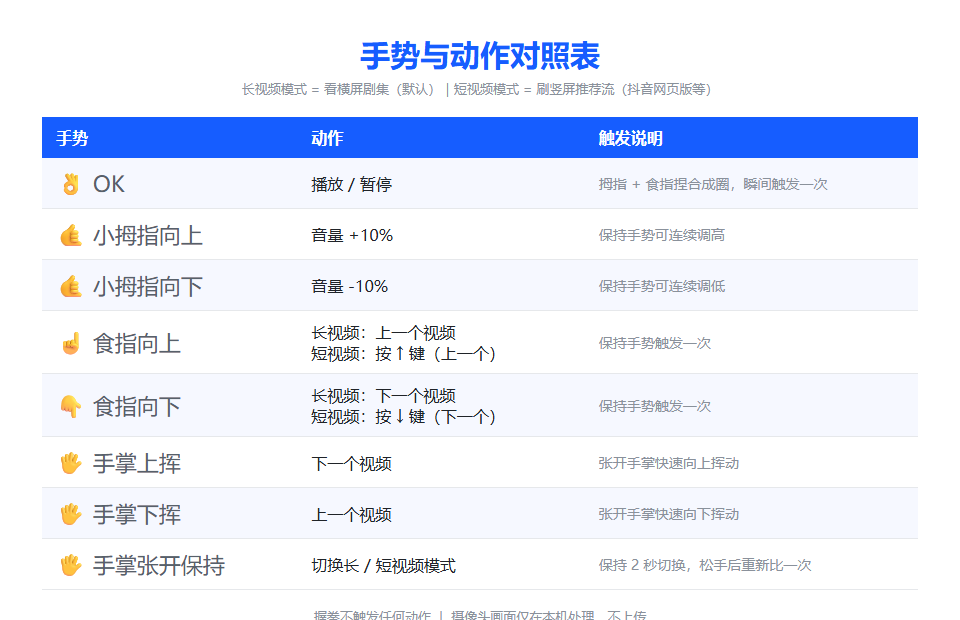
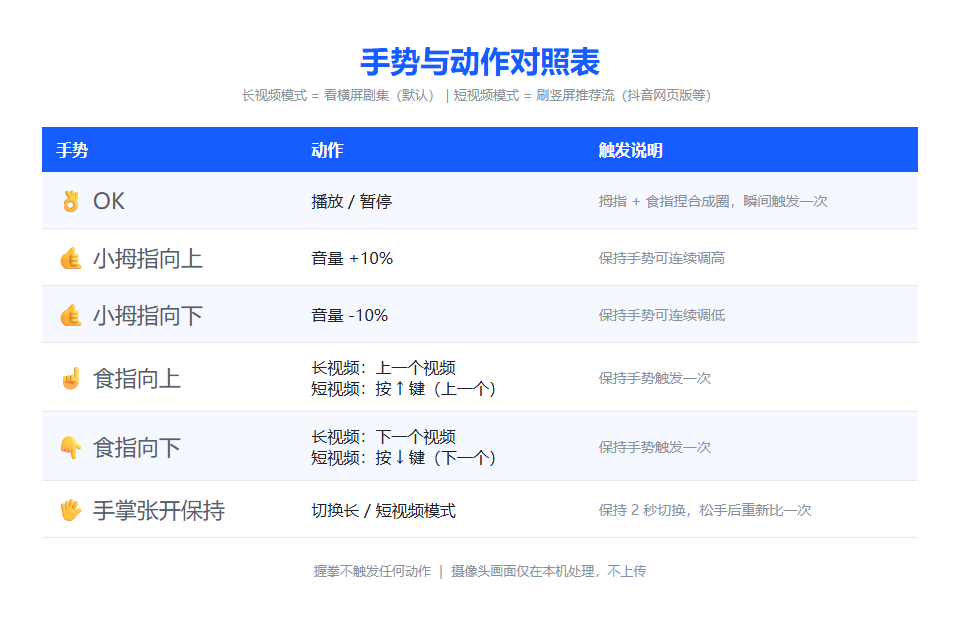
feat: 删除手掌上/下挥动切视频，保留手掌张开保持2秒切换模式

diff --git a/float.js b/float.js
@@ -66,7 +66,6 @@ const state = {
   stablePose: '',
   stableFrames: 0,
   okPinched: false,      // OK 手势捏合跳变检测
-  palmHistory: [],
   handFoundFrames: 0,    // 连续检测到手的帧数（显示防抖用）
   handLostFrames: 0,     // 连续没检测到手的帧数（显示防抖用）
   shortVideoMode: false, // 短视频模式（默认长视频模式）
@@ -672,7 +671,6 @@ function handleRecResult(result) {
     drawLandmarks(null);
     setGestureLocal('未检测到手', '把张开的手掌放到摄像头正前方，预览里能看到整只手');
     state.okPinched = false;
-    state.palmHistory = [];
     state.palmHoldStart = null;
     state.palmHoldTriggered = false;
     state.stablePose = '';
@@ -736,23 +734,8 @@ function handleRecResult(result) {
 
   // 握拳：不再触发任何动作（保留识别，避免握拳被误判成其它手势）
 
-  // 手掌张开：上下挥动切集
+  // 手掌张开：保持 2 秒切换长/短视频模式（上下挥动切集已移除）
   if (pose.name === '手掌张开') {
-    const palmY = (lm[0].y + lm[9].y) / 2;
-    state.palmHistory.push(palmY);
-    if (state.palmHistory.length > 8) state.palmHistory.shift();
-    if (stable && state.palmHistory.length >= 8 && now - state.lastActionTime >= state.debounceMs) {
-      const dy = state.palmHistory[state.palmHistory.length - 1] - state.palmHistory[0];
-      if (dy <= -0.04) {
-        state.lastActionTime = now;
-        state.palmHistory = [];
-        sendAction('next', '手掌上挥');
-      } else if (dy >= 0.04) {
-        state.lastActionTime = now;
-        state.palmHistory = [];
-        sendAction('prev', '手掌下挥');
-      }
-    }
     // 保持 2 秒：切换长/短视频模式（切换一次后需松手重新比才算下一次）
     if (state.palmHoldStart === null) {
       state.palmHoldStart = now;
@@ -761,7 +744,6 @@ function handleRecResult(result) {
       toggleShortVideoMode();
     }
   } else {
-    state.palmHistory = [];
     state.palmHoldStart = null;
     state.palmHoldTriggered = false;
   }

diff --git a/offscreen.js b/offscreen.js
@@ -35,7 +35,6 @@ const state = {
   stablePose: '',
   stableFrames: 0,
   okPinched: false,      // OK 手势捏合跳变检测
-  palmHistory: [],       // 手掌上下挥动检测
   handFoundFrames: 0,    // 连续检测到手的帧数（显示防抖用）
   handLostFrames: 0,     // 连续没检测到手的帧数（显示防抖用）
   shortVideoMode: false, // 短视频模式（默认长视频模式）
@@ -316,7 +315,6 @@ function onHandsResults(results) {
     }
     setGesture('未检测到手', '请将手掌完整放入摄像头画面');
     state.okPinched = false;
-    state.palmHistory = [];
     state.palmHoldStart = null;
     state.palmHoldTriggered = false;
     state.stablePose = '';
@@ -387,23 +385,8 @@ function onHandsResults(results) {
 
   // 握拳：不再触发任何动作（保留识别，避免握拳被误判成其它手势）
 
-  // 手掌张开：上下挥动切集
+  // 手掌张开：保持 2 秒切换长/短视频模式（上下挥动切集已移除）
   if (pose.name === '手掌张开') {
-    const palmY = (lm[0].y + lm[9].y) / 2;
-    state.palmHistory.push(palmY);
-    if (state.palmHistory.length > 8) state.palmHistory.shift();
-    if (stable && state.palmHistory.length >= 8 && now - state.lastActionTime >= state.debounceMs) {
-      const dy = state.palmHistory[state.palmHistory.length - 1] - state.palmHistory[0];
-      if (dy <= -0.04) {
-        state.lastActionTime = now;
-        state.palmHistory = [];
-        triggerAction('next', '手掌上挥');
-      } else if (dy >= 0.04) {
-        state.lastActionTime = now;
-        state.palmHistory = [];
-        triggerAction('prev', '手掌下挥');
-      }
-    }
     // 保持 2 秒：切换长/短视频模式（切换一次后需松手重新比才算下一次）
     if (state.palmHoldStart === null) {
       state.palmHoldStart = now;
@@ -412,7 +395,6 @@ function onHandsResults(results) {
       toggleShortVideoMode();
     }
   } else {
-    state.palmHistory = [];
     state.palmHoldStart = null;
     state.palmHoldTriggered = false;
   }

diff --git a/README.md b/README.md
@@ -54,8 +54,6 @@
 | 🤙 单个小拇指向下 | 音量 -10% | 保持手势可连续调低 |
 | ☝ 单个食指向上 | 长视频：上一个视频 / 短视频：按 ↑ 键（上一个视频） | 保持手势触发一次 |
 | 👇 单个食指向下 | 长视频：下一个视频 / 短视频：按 ↓ 键（下一个视频） | 保持手势触发一次 |
-| 🖐 手掌向上挥动 | 下一个视频 | 张开手掌快速上挥 |
-| 🖐 手掌向下挥动 | 上一个视频 | 张开手掌快速下挥 |
 | 🖐 手掌张开保持 2 秒 | 切换长 / 短视频模式 | 切换一次后需松手重新比一次 |
 > 注意：OK 手势不是靠“声音”识别（浏览器无法安全监听麦克风），而是靠“拇指尖与食指尖捏合成圈”的动作来识别。
 
@@ -180,7 +178,7 @@ gesture-video-control/
 - 建议距离摄像头 **40~80cm**，光线充足，手掌完整入镜；
 - OK = 拇指与食指捏合成圈（不是打响指）；
 - 音量 = 小拇指单独伸直指向上/下，保持姿势可连续调节；
-- 切集 = 单个食指伸直朝上/朝下一次，或手掌张开快速上/下挥动一次；短视频模式下食指直接触发键盘 ↑/↓ 切视频。
+- 切集 = 单个食指伸直朝上/朝下一次；短视频模式下食指直接触发键盘 ↑/↓ 切视频。
 
 ## 如何打包 .crx（发布者用）
 
